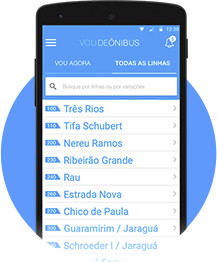
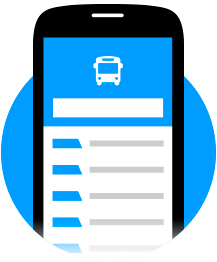
Close #10 and close #11

diff --git a/src/styles/_Home.scss b/src/styles/_Home.scss
@@ -11,6 +11,8 @@
   }
   @media screen and (max-width: $s-point) {
     padding: 1em;
+    background: url(../img/vdb-home_select-line.jpg) 15px 15px no-repeat;
+    background-size: 180px;
   }
 }
 
@@ -33,15 +35,15 @@
   max-width: 350px;
   margin: 0 auto;
   background: url(../img/vdb-home_phone.jpg) center top no-repeat;
-  padding-top: 17rem;
+  background-size: 130px;
+  padding-top: 11rem;
   @media screen and (max-width: $s-point) {
-    font-size: 1.2em;
-    text-align: left;
+    font-size: 1.4em;
     max-width: 17rem;
-    padding-top: 0;
-    padding-left: 4rem;
-    background: url(../img/voudeonibus.png) -20px 0 no-repeat;
-    background-size: 90px;
+    margin-top: 4rem;
+    padding-top: 5rem;
+    background: url(../img/voudeonibus.png) center 0 no-repeat;
+    background-size: 120px;
   }
 }
 
@@ -84,7 +86,7 @@
   animation: slideDown 1s ease;
   @media screen and (max-width: $s-point) {
     position: static;
-    margin-top: 5em;
+    margin-top: 2rem;
   }
   img {
     width: 120px;

diff --git a/src/styles/_Sidebar.scss b/src/styles/_Sidebar.scss
@@ -110,6 +110,7 @@
   border-bottom: 1px solid $gray-low;
   position: relative;
   animation: fade .3s ease;
+  padding-right: 1.8rem;
   // label number
   .number {
     @include flag-number($brand, .6rem);

diff --git a/src/styles/_layout.scss b/src/styles/_layout.scss
@@ -113,5 +113,7 @@ body {
   .vdb-wrap-container {
     height: auto;
     padding: 0;
+    overflow: visible;
+    position: static;
   }
 }
